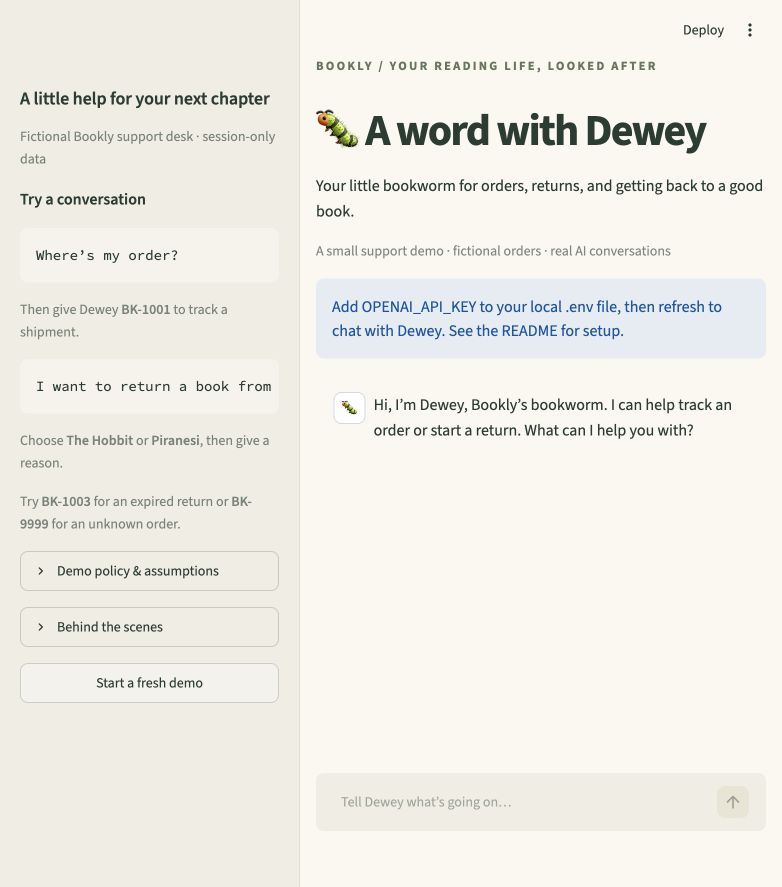
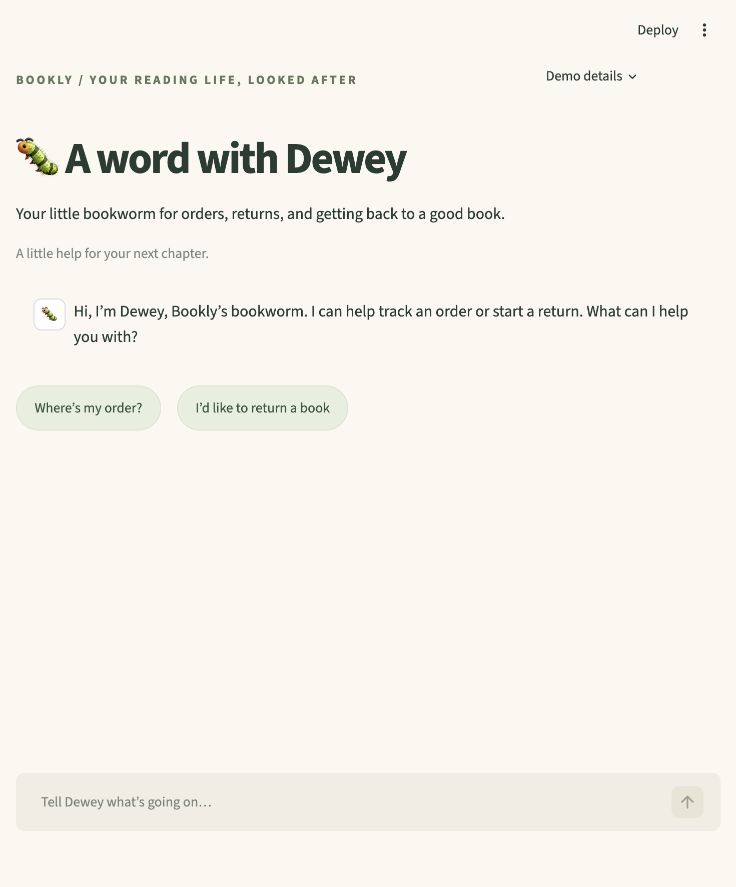
Replace sidebar with chat starter bubbles and compact demo details

diff --git a/app.py b/app.py
@@ -93,17 +93,16 @@ def render_confirmation() -> None:
         cancel.button("Cancel", on_click=cancel_return, use_container_width=True)
 
 
-def render_sidebar() -> None:
-    """Offer reproducible demo prompts, the assumed policy, and an inspectable tool trace."""
-    with st.sidebar:
-        st.markdown("### A little help for your next chapter")
-        st.caption("Fictional Bookly support desk · session-only data")
-        st.markdown("**Try a conversation**")
-        st.code("Where’s my order?", language=None)
-        st.caption("Then give Dewey **BK-1001** to track a shipment.")
-        st.code("I want to return a book from BK-1002", language=None)
-        st.caption("Choose **The Hobbit** or **Piranesi**, then give a reason.")
-        st.caption("Try **BK-1003** for an expired return or **BK-9999** for an unknown order.")
+def render_demo_details() -> None:
+    """Keep fixture help, policy, and tool evidence in an optional header popover."""
+    with st.popover("Demo details", type="tertiary"):
+        st.markdown("**A little peek behind the pages**")
+        st.caption("Fictional Bookly orders · session-only data")
+        with st.expander("Sample orders"):
+            st.write("**BK-1001** — shipped, estimated October 28.")
+            st.write("**BK-1002** — The Hobbit and Piranesi; delivered and eligible for return.")
+            st.write("**BK-1003** — outside the return window.")
+            st.write("**BK-9999** — an unknown order.")
         with st.expander("Demo policy & assumptions"):
             st.write(f"Fixed demo date: {DEMO_DATE.isoformat()}. Delivered books may be returned within 30 calendar days, inclusive. One request per book.")
             st.write("Orders are fictional. No authentication, payments, shipping labels, or live bookstore integrations. A new browser session resets the mock data.")
@@ -120,32 +119,60 @@ def render_sidebar() -> None:
             st.rerun()
 
 
+def render_suggestions(disabled: bool) -> str | None:
+    """Offer clickable starter bubbles until the customer sends their first message."""
+    if st.session_state.pending_return or any(message.get("role") == "user" for message in st.session_state.messages):
+        return None
+    # These feed the same agent path as typed text; they do not bypass clarification.
+    with st.container(key="suggestions", horizontal=True, gap="small"):
+        for prompt in ("Where’s my order?", "I’d like to return a book"):
+            if st.button(prompt, disabled=disabled):
+                return prompt
+    return None
+
+
 def main() -> None:
     """Assemble the support desk and call the agent only when a new message is submitted."""
     load_dotenv()
     st.set_page_config(page_title="Dewey · Bookly Support", page_icon="🐛", layout="centered")
     st.markdown("""<style>
-        .block-container {max-width: 820px; padding-top: 2.5rem;}
+        .block-container {max-width: 800px; padding-top: 2.5rem;}
         h1, h2, h3 {font-family: Georgia, serif;}
         h1 {letter-spacing: -.04em;}
         [data-testid="stChatMessage"] {border-radius: 16px; padding: 1.1rem;}
-        [data-testid="stSidebar"] {border-right: 1px solid #dedfce;}
+        .st-key-suggestions {margin-top: .15rem;}
+        .st-key-suggestions button {
+            border-radius: 999px; padding: .6rem 1.1rem; min-height: 2.8rem;
+            background: #e8efdf; border: 1px solid #d9e4cf; color: #365440;
+        }
+        .st-key-suggestions button:hover:not(:disabled) {
+            background: #dce8ce; border-color: #91a77e; color: #283d32;
+        }
+        .st-key-suggestions button:focus-visible {
+            outline: 2px solid #496b4a; outline-offset: 3px;
+        }
         .dewey-label {color: #64775b; font-size: .78rem; font-weight: 700;
                       letter-spacing: .18em; margin-bottom: .5rem;}
     </style>""", unsafe_allow_html=True)
     initialize_session()
-    st.markdown('<div class="dewey-label">BOOKLY / YOUR READING LIFE, LOOKED AFTER</div>', unsafe_allow_html=True)
+    brand, details = st.columns([4, 1.4], vertical_alignment="center")
+    with brand:
+        st.markdown('<div class="dewey-label">BOOKLY / YOUR READING LIFE, LOOKED AFTER</div>', unsafe_allow_html=True)
+    with details:
+        render_demo_details()
     st.title("🐛 A word with Dewey")
     st.markdown("Your little bookworm for orders, returns, and getting back to a good book.")
-    st.caption("A small support demo · fictional orders · real AI conversations")
+    st.caption("A little help for your next chapter.")
 
     api_key = os.getenv("OPENAI_API_KEY", "").strip()
     if not api_key:
         st.info("Add OPENAI_API_KEY to your local .env file, then refresh to chat with Dewey. See the README for setup.")
     render_history()
     render_confirmation()
+    suggested_prompt = render_suggestions(disabled=not api_key)
 
     prompt = st.chat_input("Tell Dewey what’s going on…", disabled=not api_key, max_chars=2000)
+    prompt = prompt or suggested_prompt
     if prompt and prompt.strip():
         with st.chat_message("user", avatar="👤"):
             st.markdown(prompt)
@@ -154,7 +181,6 @@ def main() -> None:
             client = OpenAI(api_key=api_key, timeout=30.0, max_retries=0)
             run_turn(prompt, st.session_state, client, model=os.getenv("OPENAI_MODEL") or MODEL)
         st.rerun()
-    render_sidebar()
 
 
 if __name__ == "__main__":

diff --git a/tests/test_dewey.py b/tests/test_dewey.py
@@ -273,6 +273,7 @@ def test_ui_missing_key_is_clear_and_disables_chat(monkeypatch):
     assert not app.exception
     assert app.chat_input[0].disabled
     assert "OPENAI_API_KEY" in app.info[0].value
+    assert next(button for button in app.button if button.label == "Where’s my order?").disabled
 
 
 def test_ui_confirmation_records_actual_result(monkeypatch):
@@ -304,4 +305,22 @@ def test_ui_chat_calls_agent_and_displays_response(monkeypatch):
     app.chat_input[0].set_value("Where is my order?").run()
     assert not app.exception
     assert "order number" in app.chat_message[-1].markdown[0].value
+    assert client.responses.create.call_count == 1
+
+
+@pytest.mark.parametrize("starter", ["Where’s my order?", "I’d like to return a book"])
+def test_ui_starter_bubbles_send_once_and_reset_restores_them(monkeypatch, starter):
+    monkeypatch.setenv("OPENAI_API_KEY", "fake-test-key")
+    client = fake_client(api_response("What’s your order number?"))
+    monkeypatch.setattr("openai.OpenAI", lambda **kwargs: client)
+    app = AppTest.from_file(APP_PATH).run()
+    next(button for button in app.button if button.label == starter).click().run()
+    assert not app.exception
+    assert client.responses.create.call_count == 1
+    assert app.session_state["messages"][1] == {"role": "user", "content": starter}
+    assert not any(button.label == starter for button in app.button)
+    app.run()
+    assert client.responses.create.call_count == 1
+    next(button for button in app.button if button.label == "Start a fresh demo").click().run()
+    assert any(button.label == starter for button in app.button)
     assert client.responses.create.call_count == 1

diff --git a/README.md b/README.md
@@ -82,7 +82,9 @@ reason. Its title is derived from tool data.
 Each turn allows at most six sequential model requests. SDK retries are disabled, each
 request times out after 30 seconds, and parallel tool calls are disabled. Tool requests
 and results, including model reasoning items required by the API, remain in history.
-The sidebar exposes actual function requests and results for review. OpenAI response
+The header's **Demo details → Behind the scenes** exposes actual function requests and
+results for review. Clickable starter bubbles in the chat use the same agent path as
+typed messages and disappear after the first customer message. OpenAI response
 storage is disabled with `store=False`; this is not a promise of zero provider retention.
 
 ## Demo journeys
@@ -128,7 +130,7 @@ validation, tool/backend failures, API failure recovery, and the six-call limit.
 Streamlit tests exercise real confirmation controls and chat rendering with a simulated API.
 
 Simulated model responses verify the orchestration, not the model's ability to choose the
-right response. With a real key, rehearse the journeys above and check the sidebar trace:
+right response. With a real key, rehearse the journeys above and check the trace in Demo details:
 missing ID → clarification, missing book → disambiguation, correct dates, no unsupported
 action claims, honest failures. Treat these as live acceptance checks before submission.
 

diff --git a/PLAN.md b/PLAN.md
@@ -186,6 +186,9 @@ Neither follow-up replaces Python's validation and confirmation checks.
   These state arguments are internal Python details and are absent from the model schemas.
 - The fixed demo date is October 24, 2026. Fixture dates are intentionally frozen.
 - The initial static avatar is a caterpillar emoji; custom artwork and animation are deferred.
+- UI refinement: use a self-contained chat with clickable starter bubbles in the welcome
+  view. Hide suggestions after the first customer message. Put sample orders, policy,
+  tool traces, and reset in the header's optional **Demo details** popover instead of a sidebar.
 
 ## 6. Lessons from the hotel agent — architecture review
 
@@ -243,7 +246,7 @@ These findings extend the roadmap, not the initial implementation scope.
 
 7. **Separate developer evidence from customer experience.** The hotel keeps operational
    tool outcomes/timing separate from detailed local evaluation records. Dewey's current raw
-   sidebar is acceptable for fictional data; keep it explicitly a demo inspection view.
+   trace in Demo details is acceptable for fictional data; keep it explicitly a demo inspection view.
    Before real customer data, redact identifiers and return reasons in operational logs,
    isolate sessions, and keep full evaluation transcripts private and out of Git.
 

diff --git a/DEMO.md b/DEMO.md
@@ -14,7 +14,7 @@ handles the conversation; Python controls the tools and actions.”
 
 Type “Where's my order?” and wait for Dewey to request its number. Reply “BK-1001”.
 Confirm Dewey reports shipped status and an *estimated* October 28, 2026 delivery.
-Open **Behind the scenes** to show the actual `get_order` request and result.
+Open **Demo details → Behind the scenes** to show the actual `get_order` request and result.
 
 **0:40–1:20 — Prepare and submit a return**
 
